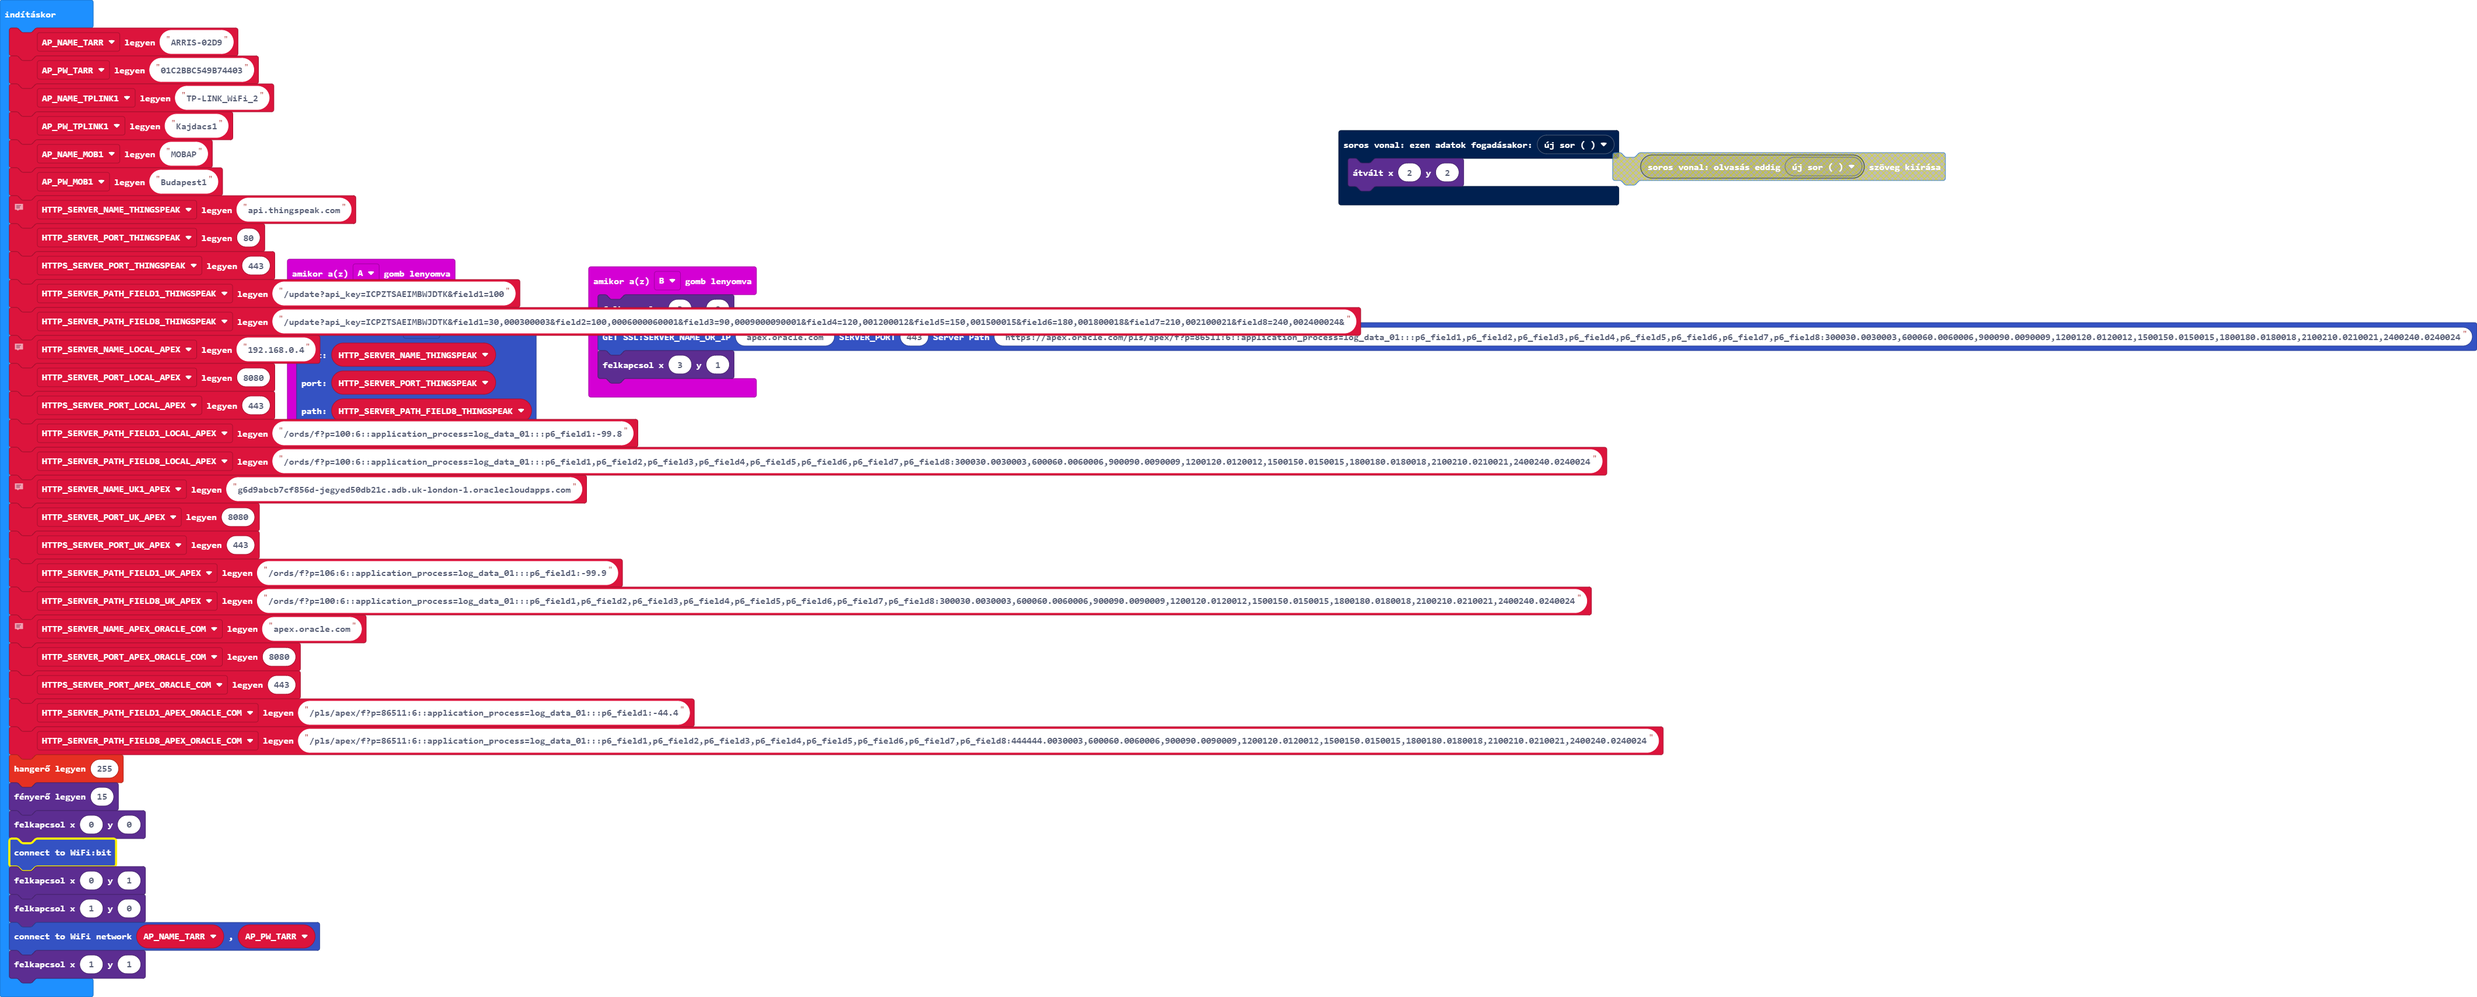
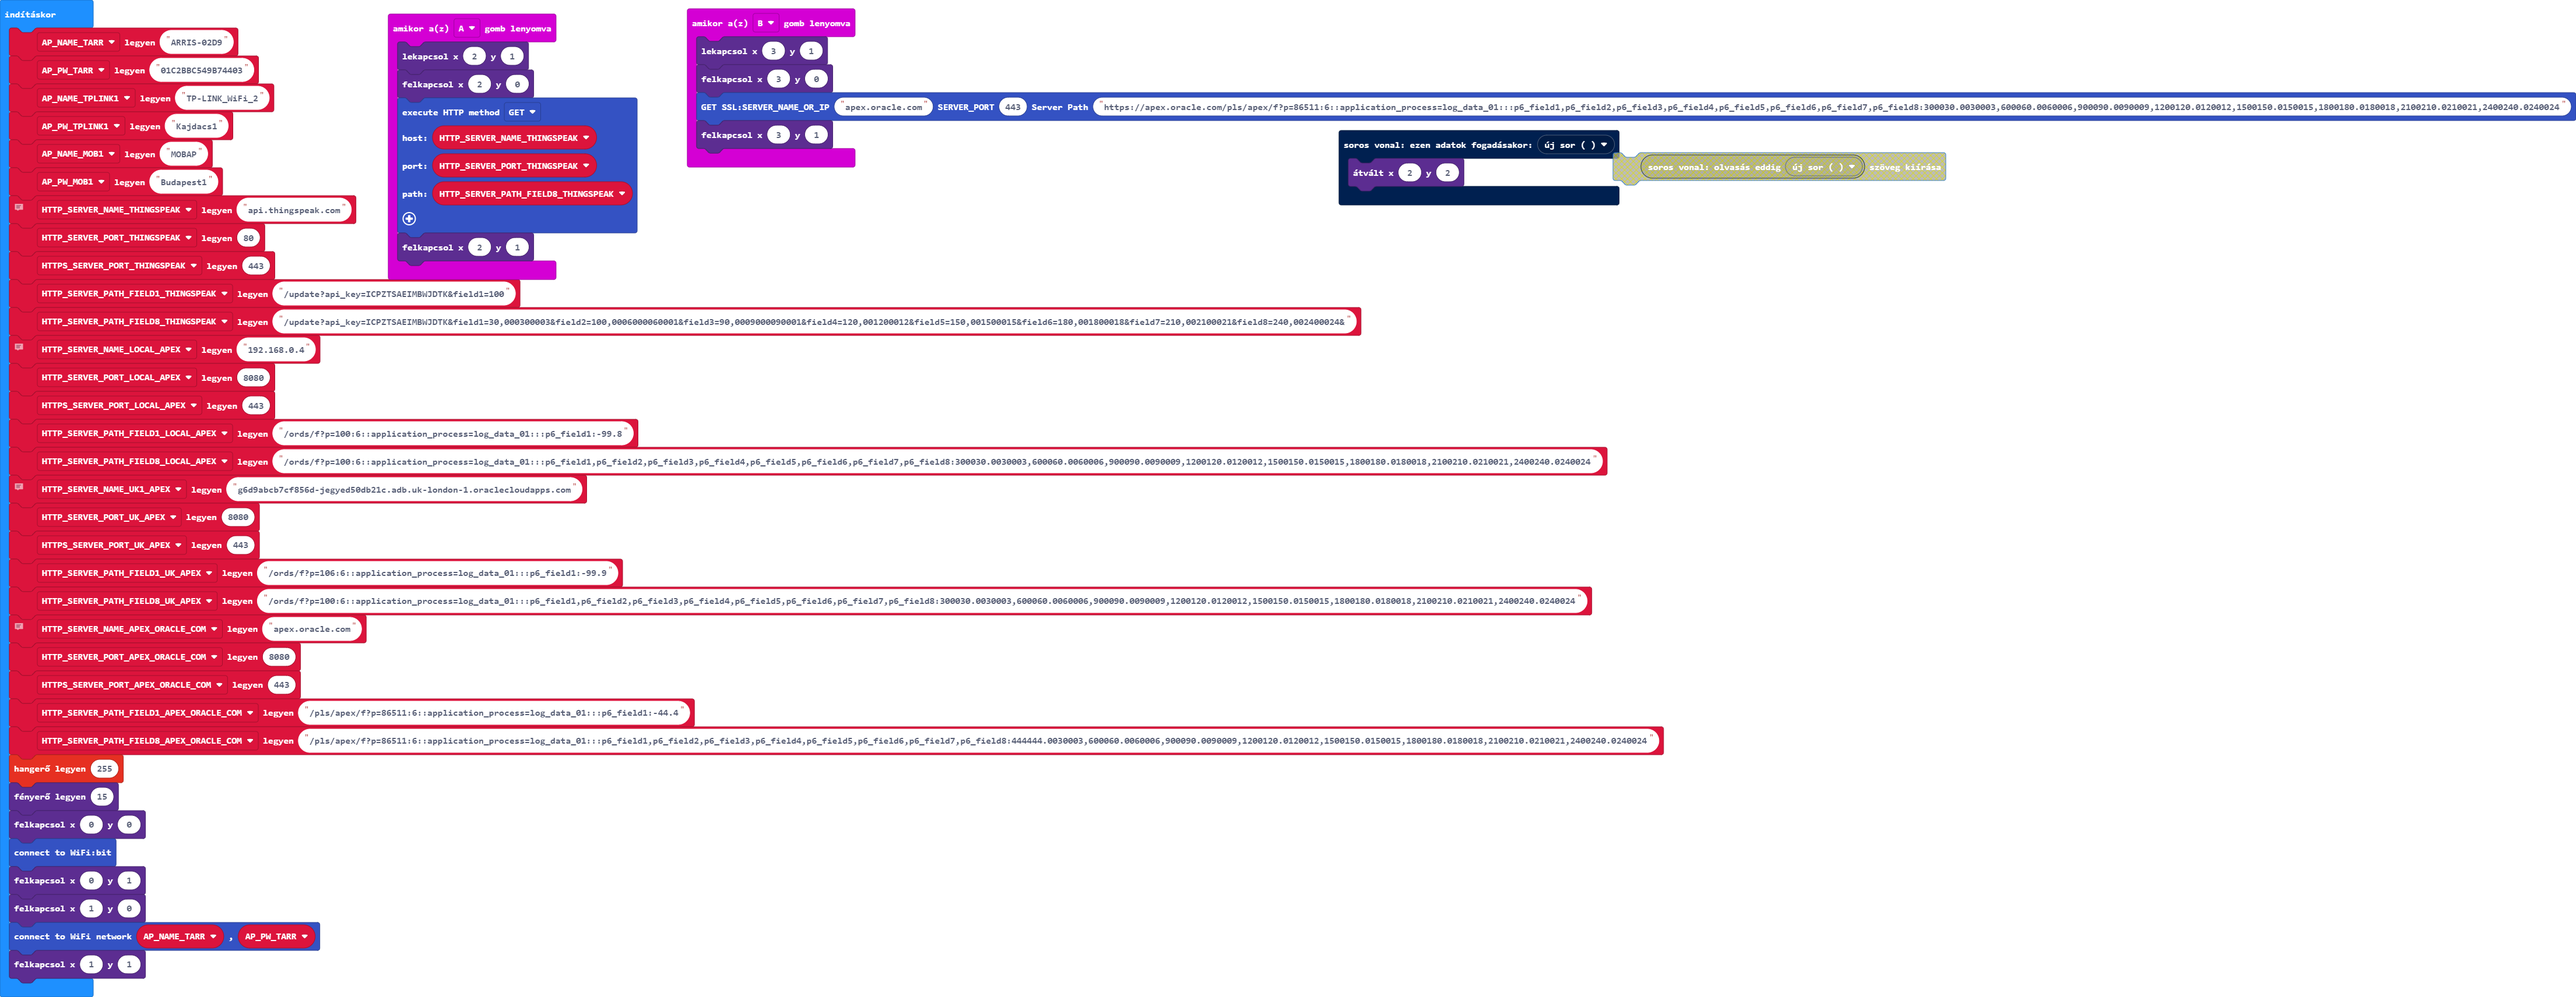
pxt.json, main.blocks, main.ts, pxt-WiFi-EJ-01-main-SSL.ts frissítése

Changed region(s): [[0.0, 0.0, 1.0, 0.9907], [0.6212, 0.712, 0.6833, 0.7739], [0.5901, 0.4334, 0.6522, 0.4953]]

diff --git a/pxt-WiFi-EJ-01-main-SSL.ts b/pxt-WiFi-EJ-01-main-SSL.ts
@@ -24,8 +24,11 @@ namespace WiFiBit {
      * @param expected_response Wait for this response.
      * @param timeout Timeout in milliseconds.
      */
+     //% subcategory="SSL_GET_EJ"
+    //% weight=30
+    //% blockGap=8
     //% blockHidden=true
-    //% blockId=esp8266_send_command
+  
     export function sendCommand(command: string, expected_response: string = null, timeout: number = 100): boolean {
         // Wait a while from previous command.
         basic.pause(10)
@@ -77,12 +80,72 @@ namespace WiFiBit {
         return result
     }
 
+    /**
+         * Send AT command and wait for response.
+         * Return true if expected response is received.
+         * @param command The AT command without the CRLF.
+         * @param expected_response Wait for this response.
+         * @param timeout Timeout in milliseconds.
+         */
+    //% weight=30
+    //% blockGap=8
+    //% blockHidden=false
+    //% blockId=esp8266_send_command
+    //% block="sendATCommand:command string %command|expected response %expected_response|timeout %timeout"
+    export function sendCommand2(command: string, expected_response: string = null, timeout: number = 100) {
+        // Wait a while from previous command.
+        basic.pause(10)
 
+        // Flush the Rx buffer.
+        serial.readString()
+        rxData = ""
+
+        // Send the command and end with "\r\n".
+        serial.writeString(command + "\r\n")
+
+        // Don't check if expected response is not specified.
+        if (expected_response == null) {
+            return true
+        }
+
+        // Wait and verify the response.
+        let result = false
+        let timestamp = input.runningTime()
+        while (true) {
+            // Timeout.
+            if (input.runningTime() - timestamp > timeout) {
+                result = false
+                break
+            }
+
+            // Read until the end of the line.
+            rxData += serial.readString()
+            if (rxData.includes("\r\n")) {
+                // Check if expected response received.
+                if (rxData.slice(0, rxData.indexOf("\r\n")).includes(expected_response)) {
+                    result = true
+                    break
+                }
+
+                // If we expected "OK" but "ERROR" is received, do not wait for timeout.
+                if (expected_response == "OK") {
+                    if (rxData.slice(0, rxData.indexOf("\r\n")).includes("ERROR")) {
+                        result = false
+                        break
+                    }
+                }
+
+                // Trim the Rx data before loop again.
+                rxData = rxData.slice(rxData.indexOf("\r\n") + 2)
+            }
+        }
+
+       return true
+    }
 
     /**
      * Return true if the SSL message was sent successfully.
      */
-    //% subcategory="SSL_GET_EJ"
     //% weight=30
     //% blockGap=8
     //% blockId=esp8266_is_SSL_message_sent
@@ -114,16 +177,16 @@ namespace WiFiBit {
 
         // Connect to HTTPS Server. Return if failed.
         //    if (sendCommand("AT+CIPSTART=\"SSL\",\"" + SERVER_NAME_OR_IP + "\", + SERVER_PORT +\", null, 10000) == false) return
-        sendCommand("AT+CIPSTART=\"SSL\",\"" + "apex.oracle.com" + "\",443", "OK", 10000)
+        sendCommand("AT+CIPSTART=\"SSL\",\"" + SERVER_NAME_OR_IP + "\",443", "OK", 10000)
         // apex.oracle.com
         // /pls/apex/f?p=86511:6::application_process=log_data_01:::p6_field1,p6_field2,p6_field3,p6_field4,p6_field5,p6_field6,p6_field7,p6_field8:300030.0030003,600060.0060006,900090.0090009,1200120.0120012,1500150.0150015,1800180.0180018,2100210.0210021,2400240.0240024
 
         // g6d9abcb7cf856d-jegyed50db21c.adb.uk-london-1.oraclecloudapps.com
         // /ords/f?p=106:6::application_process=log_data_01:::p6_field1:-99.9
         // Construct the data to send.
-        let data = "GET " + "/pls/apex/f?p=86511:6::application_process=log_data_01:::p6_field1,p6_field2,p6_field3,p6_field4,p6_field5,p6_field6,p6_field7,p6_field8:44444444.0030003,600060.0060006,900090.0090009,1200120.0120012,1500150.0150015,1800180.0180018,2100210.0210021,2400240.0240024"
+        let data = "GET " + URL_PATH
         data += " HTTP/1.1\r\n"
-        data += "Host: " + "apex.oracle.com" + "\r\n"
+        data += "Host: " + SERVER_NAME_OR_IP + "\r\n"
 
 
 

diff --git a/main.ts b/main.ts
@@ -1,4 +1,5 @@
 input.onButtonPressed(Button.A, function () {
+    led.unplot(2, 1)
     led.plot(2, 0)
     WiFiBit.executeHttpMethod(
     HttpMethod.GET,
@@ -9,6 +10,7 @@ input.onButtonPressed(Button.A, function () {
     led.plot(2, 1)
 })
 input.onButtonPressed(Button.B, function () {
+    led.unplot(3, 1)
     led.plot(3, 0)
     WiFiBit.SSL_GET_EJ("apex.oracle.com", 443, "https://apex.oracle.com/pls/apex/f?p=86511:6::application_process=log_data_01:::p6_field1,p6_field2,p6_field3,p6_field4,p6_field5,p6_field6,p6_field7,p6_field8:300030.0030003,600060.0060006,900090.0090009,1200120.0120012,1500150.0150015,1800180.0180018,2100210.0210021,2400240.0240024")
     led.plot(3, 1)
